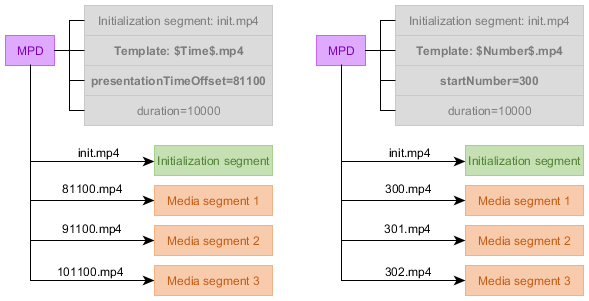
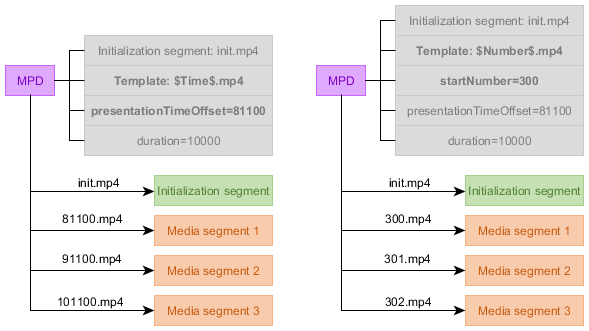
$number$ is allowed in SegmentTimeline!

diff --git a/DASH-IF-IOP.bs.md b/DASH-IF-IOP.bs.md
@@ -354,9 +354,11 @@ The start time of a [=media segment=] SHALL be calculated from the start time an
 
 The value of `S@r` SHALL be nonnegative, except for the last `S` element which MAY have a negative value in `S@r`, indicating that the repeated references continue indefinitely up to a [=media segment=] that either ends at or overlaps the period end point.
 
-[[#timing-mpd-updates|Updates to a dynamic MPD]] MAY add more `S` elements, remove expired `S` elements, add the `S@t` attribute to the first `S` element or increase the value of `S@r` on the last `S` element but SHALL NOT otherwise modify existing `S` elements.
+[[#timing-mpd-updates|Updates to a dynamic MPD]] MAY add more `S` elements, remove expired `S` elements, increment `SegmentTemplate@startNumber`, add the `S@t` attribute to the first `S` element or increase the value of `S@r` on the last `S` element but SHALL NOT otherwise modify existing `S` elements.
 
-The `SegmentTemplate@media` attribute SHALL contain the URL template for referencing [=media segments=], using the `$Time$` template variable to unique identify [=media segments=]. The `SegmentTemplate@initialization` attribute SHALL contain the URL template for referencing initialization segments.
+The `SegmentTemplate@media` attribute SHALL contain the URL template for referencing [=media segments=], using the `$Time$` or `$Number$` template variable to unique identify [=media segments=]. The `SegmentTemplate@initialization` attribute SHALL contain the URL template for referencing initialization segments.
+
+If using `$Number$` addressing, the number of the first segment reference SHALL be defined by `SegmentTemplate@startNumber` (default value 1). The `S@n` attribute SHALL NOT be used - segment numbers form a continuous sequence starting with `SegmentTemplate@startNumber`.
 
 <div class="example">
 Below is an example of common usage of the explicit addressing mode.
@@ -428,6 +430,7 @@ For [=representations=] that use [=explicit addressing=], perform the following 
 1. Update `SegmentTemplate@presentationTimeOffset` to indicate the desired start point on the [=sample timeline=].
 1. Update `Period@duration` to match the new duration.
 1. Remove any unnecessary segment references.
+1. If using the `$Number$` template variable, increment `SegmentTemplate@startNumber` by the number of [=media segments=] removed from the beginning of the [=representation=].
 
 </div>
 
@@ -453,6 +456,8 @@ The `SegmentTemplate@duration` attribute SHALL define the nominal duration of a 
 The set of [=segment references=] SHALL consist of the first [=media segment=] starting exactly at the [=period=] start point and all other [=media segments=] following in a consecutive series of equal time spans of `SegmentTemplate@duration` [=timescale units=], ending with a [=media segment=] that ends at or overlaps the [=period=] end time.
 
 The `SegmentTemplate@media` attribute SHALL contain the URL template for referencing [=media segments=], using either the `$Time$` or `$Number$` template variable to uniquely identify [=media segments=]. The `SegmentTemplate@initialization` attribute SHALL contain the URL template for referencing initialization segments.
+
+If using `$Number$` addressing, the number of the first segment reference SHALL be defined by `SegmentTemplate@startNumber` (default value 1).
 
 <div class="example">
 Below is an example of common usage of the simple addressing mode.
@@ -533,7 +538,7 @@ Having ensured conformance to the above requirements for the new period start po
 <div class="algorithm">
 
 1. Update `SegmentTemplate@presentationTimeOffset` to indicate the desired start point on the [=sample timeline=].
-1. If present, increment `SegmentTemplate@startNumber` by the number of [=media segments=] removed from the beginning of the [=representation=].
+1. If using the `$Number$` template variable, increment `SegmentTemplate@startNumber` by the number of [=media segments=] removed from the beginning of the [=representation=].
 1. Update `Period@duration` to match the new duration.
 
 </div>
@@ -549,12 +554,7 @@ To perform the conversion, execute the following steps:
 <div class="algorithm">
 
 1. Calculate the number of [=media segments=] in the representation as `SegmentCount = Ceil(AsSeconds(Period@duration) / ( SegmentTemplate@duration / SegmentTemplate@timescale))`.
-1. Assign a zero-based `SegmentIndex` value to each [=media segment=] in the representation, incrementing by one per segment.
-1. If using `$Number$` placeholders in `SegmentTemplate@media`:
-	1. Replace `$Number$` placeholders with equivalent `$Time$` placeholders.
-	1. Rename segment files to match new template. Calculate the value for `$Time$` as `SegmentStartTime = SegmentTemplate@presentationTimeOffset + SegmentIndex * SegmentTemplate@duration`.
 1. Update the MPD.
-	1. Remove `SegmentTemplate@startNumber` if present.
 	1. Add a single `SegmentTemplate/SegmentTimeline` element.
 	1. Add a single `SegmentTimeline/S` element.
 	1. Set `S@t` to equal `SegmentTemplate@presentationTimeOffset`.
@@ -581,7 +581,7 @@ Below is an example of a [=simple addressing=] [=representation=] before convers
 </MPD>
 </xmp>
 
-As part of the conversion, we calculate `SegmentCount = Ceil(900 / (4001 / 1000)) = 225`. We also rename files to time-based addressing, with the first segment file `800.m4s` getting the value `SegmentStartTime = 900 + 0 * 4001 = 900` which will later be resolved to the path `video/900.m4s` by clients.
+As part of the conversion, we calculate `SegmentCount = Ceil(900 / (4001 / 1000)) = 225`.
 
 After conversion, we arrive at the following result.
 
@@ -591,7 +591,8 @@ After conversion, we arrive at the following result.
 		<AdaptationSet>
 			<Representation>
 				<SegmentTemplate timescale="1000" presentationTimeOffset="900"
-						media="video/$Time$.m4s" initialization="video/init.mp4">
+						media="video/$Number$.m4s" initialization="video/init.mp4"
+						startNumber="800">
 					<SegmentTimeline>
 						<S t="900" d="4001" r="224" />
 					</SegmentTimeline>
